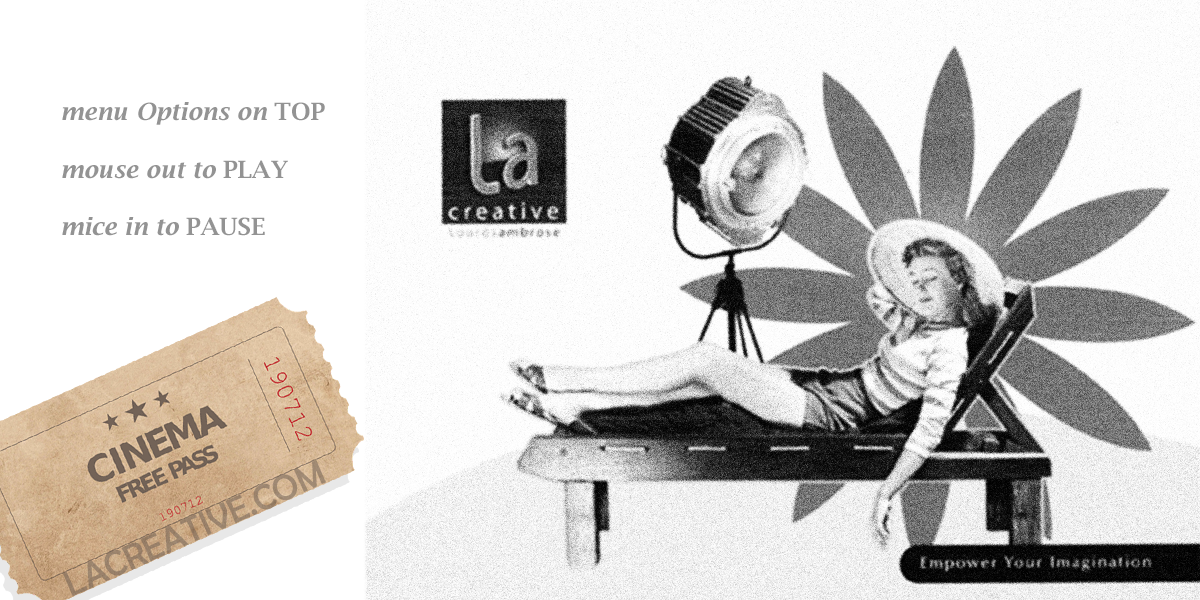
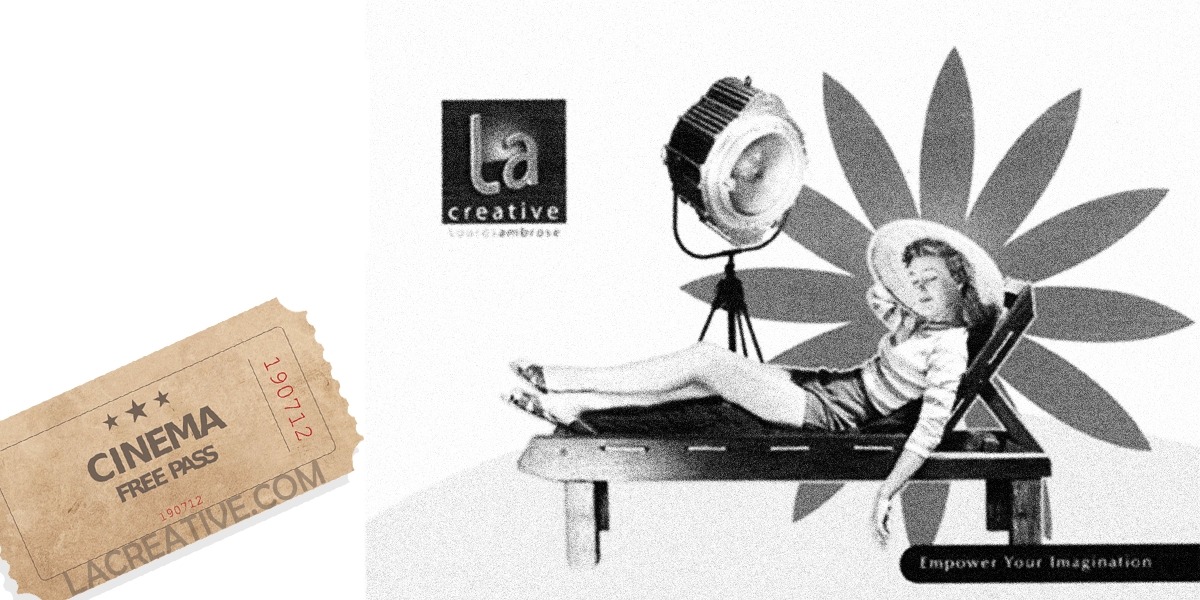
home image change

Changed region(s): [[0.0308, 0.15, 0.2775, 0.21], [0.0308, 0.27, 0.2467, 0.3], [0.0308, 0.36, 0.2158, 0.39]]

diff --git a/index.html b/index.html
@@ -86,6 +86,7 @@
       <img onclick="openVideo()" id="icon-image" src="images/ShowReelIcon.png" alt="Show Reel Icon">
       <button onclick="prevButton()"> Prev </button>
       <button onclick="nxtButton()"> Next </button>
+   
     </div>
 
 
@@ -153,7 +154,12 @@
   function changeImage() {
     image.style.opacity = 0; // Fade out
     setTimeout(() => {
-      image.src = images[index];
+      
+      if (index == 0){
+        
+      } else {
+        image.src = images[index];
+      }
       index = (index + 1) % images.length;
       image.style.opacity = 1; // Fade in
     }, 1000);
